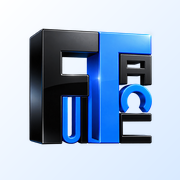
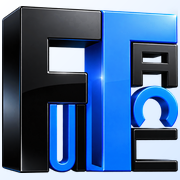
fix: sincroniza tema del dispositivo y amplia iconos Fulltech

diff --git a/apps/phyto_printer/lib/main.dart b/apps/phyto_printer/lib/main.dart
@@ -63,12 +63,33 @@ class _CrmWebShellState extends State<CrmWebShell> {
 
   int _progress = 0;
   String? _loadError;
+  bool _dark =
+      WidgetsBinding.instance.platformDispatcher.platformBrightness ==
+      Brightness.dark;
+  Color get _surface =>
+      _dark ? const Color(0xff0b1424) : const Color(0xfff4f7fd);
+
+  Future<void> _handleAppearance(JavaScriptMessage message) async {
+    if (!['dark', 'light'].contains(message.message) ||
+        !await _currentOriginIsTrusted() ||
+        !mounted) {
+      return;
+    }
+    final dark = message.message == 'dark';
+    if (_dark != dark) setState(() => _dark = dark);
+    await _webController.setBackgroundColor(_surface);
+  }
 
   @override
   void initState() {
     super.initState();
     _webController = WebViewController(onPermissionRequest: _handleMediaPermission)
       ..setJavaScriptMode(JavaScriptMode.unrestricted)
+      ..setBackgroundColor(_surface)
+      ..addJavaScriptChannel(
+        'FulltechAppearance',
+        onMessageReceived: _handleAppearance,
+      )
       ..setUserAgent('PhytoemagryAndroid WebView')
       ..addJavaScriptChannel(
         'PhytoDeviceBridge',
@@ -76,6 +97,13 @@ class _CrmWebShellState extends State<CrmWebShell> {
       )
       ..setNavigationDelegate(
         NavigationDelegate(
+          onPageFinished: (_) async {
+            if (await _currentOriginIsTrusted()) {
+              await _webController.runJavaScript(
+                "window.FulltechAppearance.postMessage(document.documentElement.dataset.theme === 'dark' ? 'dark' : 'light');",
+              );
+            }
+          },
           onProgress: (progress) => setState(() => _progress = progress),
           onPageStarted: (_) => setState(() => _loadError = null),
           onWebResourceError: (error) {
@@ -96,14 +124,21 @@ class _CrmWebShellState extends State<CrmWebShell> {
   }
 
   Future<void> _handleMediaPermission(WebViewPermissionRequest request) async {
-    final audioOnly = request.types.isNotEmpty &&
-        request.types.every((type) => type == WebViewPermissionResourceType.microphone);
-    if (!audioOnly || !await _currentOriginIsTrusted() || _crmUri.scheme != 'https') {
+    final audioOnly =
+        request.types.isNotEmpty &&
+        request.types.every(
+          (type) => type == WebViewPermissionResourceType.microphone,
+        );
+    if (!audioOnly ||
+        !await _currentOriginIsTrusted() ||
+        _crmUri.scheme != 'https') {
       await request.deny();
       return;
     }
     try {
-      final allowed = await _nativeChannel.invokeMethod<bool>('requestMicrophone');
+      final allowed = await _nativeChannel.invokeMethod<bool>(
+        'requestMicrophone',
+      );
       if (allowed == true && mounted && await _currentOriginIsTrusted()) {
         await request.grant();
       } else {
@@ -235,27 +270,41 @@ class _CrmWebShellState extends State<CrmWebShell> {
 
   @override
   Widget build(BuildContext context) {
-    return PopScope(
-      canPop: false,
-      onPopInvokedWithResult: (didPop, _) {
-        if (!didPop) unawaited(_handleBack());
-      },
-      child: Scaffold(
-        body: SafeArea(
-          child: Stack(
-            children: [
-              WebViewWidget(controller: _webController),
-              if (_progress < 100)
-                LinearProgressIndicator(
-                  value: _progress <= 0 ? null : _progress / 100,
-                  minHeight: 2,
-                ),
-              if (_loadError != null)
-                _LoadError(
-                  message: _loadError!,
-                  onRetry: () => _webController.loadRequest(_crmUri),
-                ),
-            ],
+    return AnnotatedRegion<SystemUiOverlayStyle>(
+      value: SystemUiOverlayStyle(
+        statusBarColor: _surface,
+        statusBarIconBrightness: _dark ? Brightness.light : Brightness.dark,
+        statusBarBrightness: _dark ? Brightness.dark : Brightness.light,
+        systemNavigationBarColor: _surface,
+        systemNavigationBarDividerColor: _surface,
+        systemNavigationBarIconBrightness: _dark
+            ? Brightness.light
+            : Brightness.dark,
+        systemNavigationBarContrastEnforced: false,
+      ),
+      child: PopScope(
+        canPop: false,
+        onPopInvokedWithResult: (didPop, _) {
+          if (!didPop) unawaited(_handleBack());
+        },
+        child: Scaffold(
+          backgroundColor: _surface,
+          body: SafeArea(
+            child: Stack(
+              children: [
+                WebViewWidget(controller: _webController),
+                if (_progress < 100)
+                  LinearProgressIndicator(
+                    value: _progress <= 0 ? null : _progress / 100,
+                    minHeight: 2,
+                  ),
+                if (_loadError != null)
+                  _LoadError(
+                    message: _loadError!,
+                    onRetry: () => _webController.loadRequest(_crmUri),
+                  ),
+              ],
+            ),
           ),
         ),
       ),

diff --git a/public/admin/index.html b/public/admin/index.html
@@ -5,6 +5,7 @@
     <meta name="viewport" content="width=device-width, initial-scale=1, maximum-scale=1, user-scalable=no, viewport-fit=cover" />
     <meta name="robots" content="noindex, nofollow" />
     <meta name="theme-color" content="#145bd7" />
+    <meta name="color-scheme" content="light dark" />
     <title>CRM · FullTECH, SRL</title>
     <meta name="description" content="Panel privado de FullTECH, SRL: clientes, WhatsApp, pedidos y seguimiento." />
 
@@ -26,6 +27,9 @@
           const oscuro = elegido === 'dark' || (elegido === 'auto' && sistemaOscuro);
           document.documentElement.dataset.tema = elegido;
           document.documentElement.dataset.theme = oscuro ? 'dark' : 'light';
+          document.documentElement.style.colorScheme = oscuro ? 'dark' : 'light';
+          document.querySelector('meta[name="color-scheme"]').content = oscuro ? 'dark' : 'light';
+          document.querySelector('meta[name="theme-color"]').content = oscuro ? '#0b1424' : '#145bd7';
         } catch (error) {
           /* Sin Storage (o modo raro) se abre en claro: nunca en blanco. */
           document.documentElement.dataset.tema = 'auto';
@@ -36,9 +40,9 @@
 
     <!-- PWA: se instala en el móvil y abre a pantalla completa -->
     <link rel="manifest" href="/admin/manifest.json" />
-    <link rel="icon" href="/admin/fulltech-favicon.png" sizes="32x32" type="image/png" />
-    <link rel="icon" href="/admin/fulltech-icon-192.png" sizes="192x192" type="image/png" />
-    <link rel="apple-touch-icon" href="/admin/fulltech-apple-touch-icon.png" />
+    <link rel="icon" href="/admin/fulltech-favicon.png?v=2" sizes="32x32" type="image/png" />
+    <link rel="icon" href="/admin/fulltech-icon-192.png?v=2" sizes="192x192" type="image/png" />
+    <link rel="apple-touch-icon" href="/admin/fulltech-apple-touch-icon.png?v=2" />
     <meta name="apple-mobile-web-app-capable" content="yes" />
     <meta name="mobile-web-app-capable" content="yes" />
     <meta name="apple-mobile-web-app-title" content="FullTECH, SRL" />

diff --git a/tests/panel-tema-uat.test.js b/tests/panel-tema-uat.test.js
@@ -119,6 +119,8 @@ describe('el tema se elige y se queda elegido', () => {
   });
 
   it('al elegir «Oscuro» se pone en el acto, se recuerda y el chip queda marcado', () => {
+    const nativeThemes = [];
+    dom.window.FulltechAppearance = { postMessage: value => nativeThemes.push(value) };
     click('[data-tema-picker] [data-tema="dark"]');
     expect(raiz().dataset.theme).toBe('dark');
     expect(raiz().dataset.tema).toBe('dark');
@@ -127,6 +129,9 @@ describe('el tema se elige y se queda elegido', () => {
     expect($('[data-tema-picker] [data-tema="light"]').getAttribute('aria-checked')).toBe('false');
     // La barra del sistema se avisa al navegador (Android/iPhone).
     expect($('meta[name="theme-color"]').getAttribute('content')).toBe('#0b1424');
+    expect($('meta[name="color-scheme"]').content).toBe('dark');
+    expect(raiz().style.colorScheme).toBe('dark');
+    expect(nativeThemes).toEqual(['dark']);
   });
 
   it('al elegir «Claro» vuelve al claro', () => {
@@ -134,6 +139,8 @@ describe('el tema se elige y se queda elegido', () => {
     expect(raiz().dataset.theme).toBe('light');
     expect(dom.window.localStorage.getItem('pe_tema')).toBe('light');
     expect($('meta[name="theme-color"]').getAttribute('content')).toBe('#145bd7');
+    expect($('meta[name="color-scheme"]').content).toBe('light');
+    expect(raiz().style.colorScheme).toBe('light');
   });
 
   it('«Como el teléfono» sigue al sistema (y también si el móvil cambia)', () => {

diff --git a/public/admin/sw.js b/public/admin/sw.js
@@ -7,7 +7,7 @@
  *    pedido, no una copia vieja. Los datos offline los guarda la propia app.
  */
 
-const VERSION = 'crm-v105-fulltech-pos';
+const VERSION = 'crm-v106-fulltech-device-theme';
 const TILE_CACHE = `${VERSION}-tiles`;
 const TILE_META = `${VERSION}-tile-meta`;
 const MAX_TILE_ENTRIES = 1200;
@@ -47,11 +47,11 @@ const SHELL = [
   '/admin/vendor/leaflet/images/marker-shadow.png',
   '/admin/assets/sounds/message-notification.wav',
   '/admin/fulltech-logo.png',
-  '/admin/fulltech-favicon.png',
-  '/admin/fulltech-icon-192.png',
-  '/admin/fulltech-icon-512.png',
-  '/admin/fulltech-icon-maskable-512.png',
-  '/admin/fulltech-apple-touch-icon.png',
+  '/admin/fulltech-favicon.png?v=2',
+  '/admin/fulltech-icon-192.png?v=2',
+  '/admin/fulltech-icon-512.png?v=2',
+  '/admin/fulltech-icon-maskable-512.png?v=2',
+  '/admin/fulltech-apple-touch-icon.png?v=2',
 ];
 
 self.addEventListener('install', (event) => {
@@ -265,8 +265,8 @@ self.addEventListener('push', (event) => {
           conversationId: payload.conversationId || null,
           notificationId: payload.notificationId || null,
         },
-        icon: '/admin/fulltech-icon-192.png',
-        badge: '/admin/fulltech-icon-192.png',
+        icon: '/admin/fulltech-icon-192.png?v=2',
+        badge: '/admin/fulltech-icon-192.png?v=2',
         vibrate: Array.isArray(payload.vibrate) ? payload.vibrate : undefined,
       });
     } catch (error) {

diff --git a/public/admin/app.js b/public/admin/app.js
@@ -202,6 +202,9 @@
     const pintado = temaPintado(elegido);
     document.documentElement.dataset.tema = elegido;
     document.documentElement.dataset.theme = pintado;
+    document.documentElement.style.colorScheme = pintado;
+    document.querySelector('meta[name="color-scheme"]')?.setAttribute('content', pintado);
+    window.FulltechAppearance?.postMessage(pintado);
     if (guardar) {
       try {
         localStorage.setItem(TEMA_KEY, elegido);

diff --git a/scripts/generate-admin-icons.py b/scripts/generate-admin-icons.py
@@ -9,7 +9,7 @@ ROOT = Path(__file__).resolve().parent.parent
 OUT = ROOT / 'public' / 'admin'
 SOURCE = ROOT / 'assets' / 'branding' / 'fulltech-logo-source.png'
 
-def icon(source, size, fraction=.82):
+def icon(source, size, fraction=.98):
     base = Image.new('RGB', (size, size))
     pixels = base.load()
     for y in range(size):
@@ -27,13 +27,15 @@ def main():
     web_logo = source.copy()
     web_logo.thumbnail((512,512),Image.Resampling.LANCZOS)
     web_logo.save(OUT/'fulltech-logo.png',optimize=True)
-    # .54 inscribe el logo completo en el círculo seguro de radio .4 del lienzo.
-    for name,size,fraction in [('fulltech-icon-192.png',192,.82),('fulltech-icon-512.png',512,.82),('fulltech-icon-maskable-512.png',512,.54),('fulltech-apple-touch-icon.png',180,.82),('fulltech-favicon.png',32,.9)]:
+    # Ignora píxeles casi transparentes del resplandor al calcular el tamaño.
+    source = source.crop(source.getchannel('A').point(lambda a: 255 if a >= 128 else 0).getbbox())
+    # El adaptable conserva margen para la máscara del launcher, sin el aire anterior.
+    for name,size,fraction in [('fulltech-icon-192.png',192,.98),('fulltech-icon-512.png',512,.98),('fulltech-icon-maskable-512.png',512,.80),('fulltech-apple-touch-icon.png',180,.98),('fulltech-favicon.png',32,.98)]:
         icon(source,size,fraction).save(OUT/name,optimize=True)
         print(f'{name}: {size}x{size}')
     android = ROOT/'apps/phyto_printer/android/app/src/main/res'
     for density,size in [('mdpi',48),('hdpi',72),('xhdpi',96),('xxhdpi',144),('xxxhdpi',192)]:
-        icon(source,size,.72).save(android/f'mipmap-{density}'/'ic_launcher.png',optimize=True)
+        icon(source,size,.98).save(android/f'mipmap-{density}'/'ic_launcher.png',optimize=True)
         launch_dir = android/f'drawable-{density}'
         launch_dir.mkdir(exist_ok=True)
         icon(source,size*3,.82).save(launch_dir/'fulltech_launch.png',optimize=True)

diff --git a/docs/FULLTECH.md b/docs/FULLTECH.md
@@ -12,7 +12,7 @@ Prompt final utilizado:
 
 > Edit target: the attached Fulltech 3D black and electric-blue logo. Remove ONLY the pale blue/white background, floor and cast/reflected floor shadows, including background visible through letter openings. Preserve the exact interlocking letter shapes, arrangement, proportions, black and electric-blue materials, bevels, highlights and all logo details. No redesign, no new text. Center the complete uncropped logo on a genuinely transparent square canvas with modest padding. Intended use: original brand logo on app splash and launcher icons.
 
-`python scripts/generate-admin-icons.py` exporta el logo web, favicon de 32 px, iconos PWA de 192/512 px, maskable de 512 px y Apple Touch de 180 px. Los iconos de instalación tienen fondo opaco; el maskable inscribe todo el emblema en el círculo seguro central. También genera los iconos y gráficos de arranque de las cinco densidades Android.
+`python scripts/generate-admin-icons.py` exporta el logo web, favicon de 32 px, iconos PWA de 192/512 px, maskable de 512 px y Apple Touch de 180 px. Los iconos de instalación tienen fondo opaco; el maskable deja margen para el recorte del launcher. También genera los iconos y gráficos de arranque de las cinco densidades Android.
 
 El manifest conserva `/admin/` como identidad, inicio y alcance. No se cambia la identidad de instalación Android. El service worker incluye los recursos nuevos y renueva su versión de caché.
 
@@ -25,3 +25,27 @@ El manifest conserva `/admin/` como identidad, inicio y alcance. No se cambia la
 - Revisión visual en Chrome de claro/oscuro y presentación de inicio; la geometría móvil del arranque no produce desplazamiento horizontal y el logo carga correctamente.
 
 Esta iteración es local. No se ha desplegado, ni se ha instalado/verificado todavía en un iPhone o Android físico. Vista previa UAT con WhatsApp simulado: http://127.0.0.1:8792/admin/.
+
+
+## Tema del dispositivo e iconos ampliados (16/10/2026)
+
+- El tema elegido actualiza `theme-color`, `color-scheme` y el esquema CSS desde
+  el arranque, además de notificar al contenedor Android por `FulltechAppearance`.
+- El APK recibe únicamente claro/oscuro desde el origen del CRM; sincroniza fondo
+  de WebView, Scaffold, áreas seguras y contraste de los iconos de las barras
+  nativas. El fondo bajo la navegación también cubre Android edge-to-edge.
+- En PWA, el control final de la barra de tres botones corresponde a Android y
+  Chrome. No se puede garantizar un color independiente del sistema en todos
+  los equipos. Referencias: https://developer.chrome.com/docs/css-ui/edge-to-edge
+  y https://api.flutter.dev/flutter/services/SystemUiOverlayStyle-class.html.
+- Iconos normales/Android/iOS: logo al 98% del lienzo útil; adaptable: 80%, frente
+  al 54% anterior. Se excluyen píxeles casi transparentes al medir el emblema.
+  El launcher aún puede aplicar su propia máscara. Las URLs `?v=2` evitan servir
+  iconos anteriores desde caché, manteniendo la identidad de la aplicación.
+- Validación: 54 pruebas web, 20 Flutter, análisis Flutter sin incidencias y build
+  web aprobado. La comprobación en navegador confirma metadatos oscuros. Pendiente
+  comprobar las barras y la actualización del icono en el teléfono físico.
+- Si la aplicación es APK, requiere instalar la nueva compilación para cambiar
+  las barras/iconos nativos. En una PWA, el launcher puede tardar en refrescar el
+  icono instalado; quitar únicamente el acceso y reinstalarlo desde Chrome fuerza
+  la actualización, sin borrar datos del CRM.
